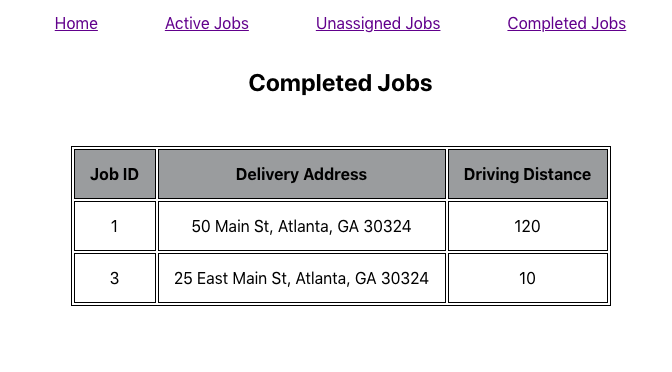
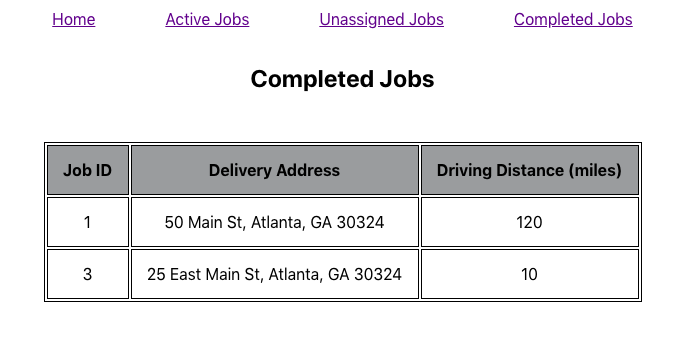
adds new photo for completed jobs

diff --git a/client/src/CompletedList.js b/client/src/CompletedList.js
@@ -21,7 +21,7 @@ class CompletedList extends React.Component {
                         <tr>
                             <th>Job ID</th>
                             <th>Delivery Address</th>
-                            <th>Driving Distance</th>
+                            <th>Driving Distance (miles)</th>
                         </tr>
                         {
                             this.props.completed 
